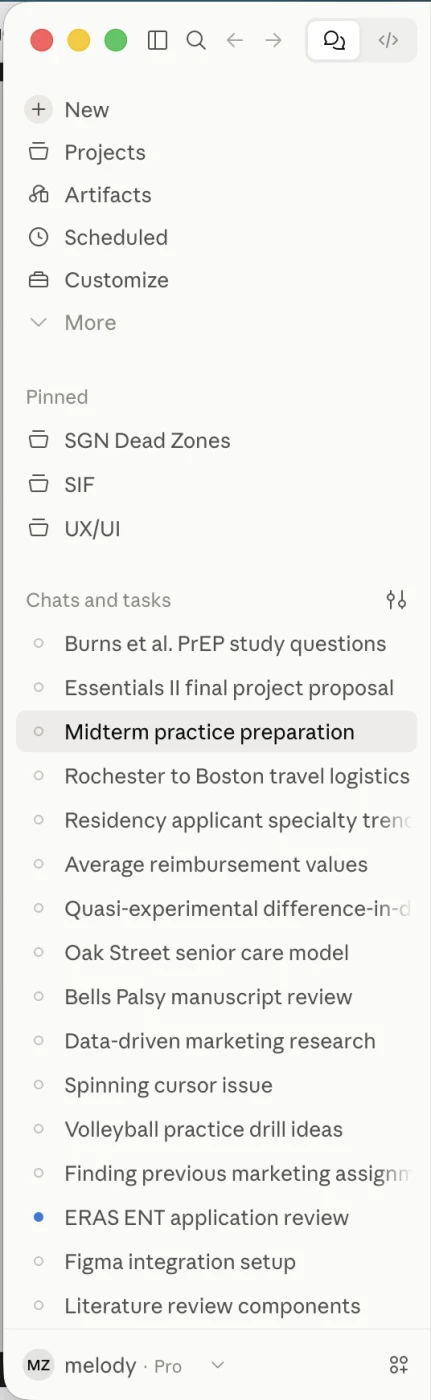
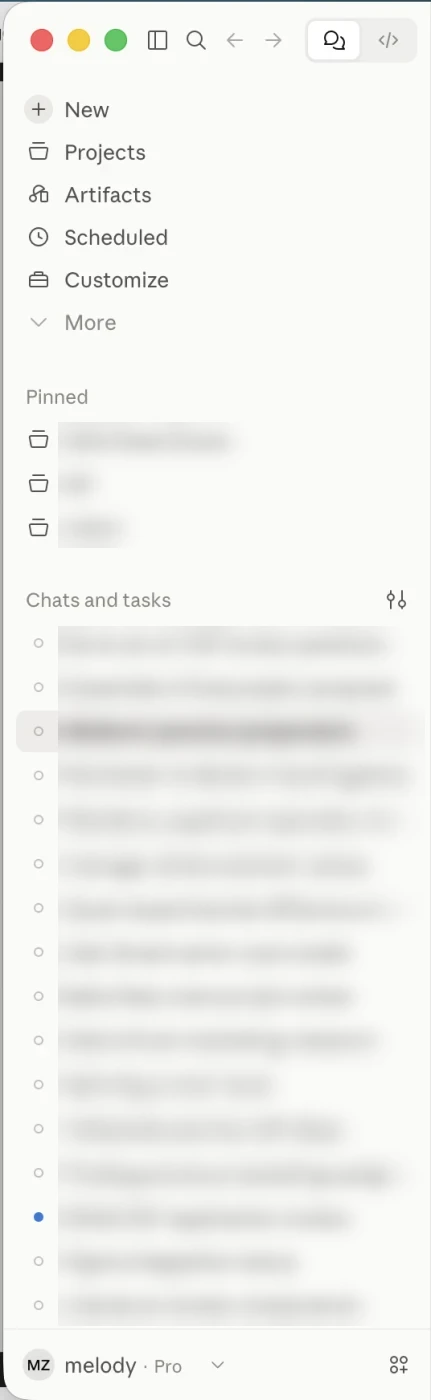
Creatify: blur personal chat titles in the Claude sidebar screenshot

Changed region(s): [[0.1206, 0.43, 0.935, 0.9521], [0.1508, 0.3071, 0.5429, 0.3993], [0.8747, 0.645, 0.9049, 0.6757]]

diff --git a/creatify/index.html b/creatify/index.html
@@ -1049,7 +1049,7 @@
         <figure><img class="sk-zoom interactable" data-full="images/nav-audit-figma-home.webp" src="images/nav-audit-figma-home.webp" width="380" height="1400" loading="lazy" alt="Figma’s home screen: the full sidebar with recents, drafts and projects."><figcaption><span class="sk-label">Figma · Home</span>Main nav fully expanded when nothing else needs the space</figcaption></figure>
         <figure><img class="sk-zoom interactable" data-full="images/nav-audit-higgsfield.webp" src="images/nav-audit-higgsfield.webp" width="375" height="1400" loading="lazy" alt="Higgsfield’s single dark sidebar: products, customize options and chat history together."><figcaption><span class="sk-label">Higgsfield</span>Chats live inside the one sidebar, so they’re hard to forget</figcaption></figure>
         <figure><img class="sk-zoom interactable" data-full="images/nav-audit-heygen.webp" src="images/nav-audit-heygen.webp" width="515" height="1400" loading="lazy" alt="HeyGen: a compact icon rail with a separate sidebar for the Apps section."><figcaption><span class="sk-label">HeyGen</span>A permanently compact rail, plus a sidebar per section</figcaption></figure>
-        <figure><img class="sk-zoom interactable" data-full="images/nav-audit-claude.webp" src="images/nav-audit-claude.webp" width="431" height="1400" loading="lazy" alt="Claude’s sidebar: actions at the top, pinned items, then chats and the account at the bottom."><figcaption><span class="sk-label">Claude</span>One sidebar with clear layers: actions, pinned, chats, account</figcaption></figure>
+        <figure><img class="sk-zoom interactable" data-full="images/nav-audit-claude.webp?v=2" src="images/nav-audit-claude.webp?v=2" width="431" height="1400" loading="lazy" alt="Claude’s sidebar: actions at the top, pinned items, then chats and the account at the bottom."><figcaption><span class="sk-label">Claude</span>One sidebar with clear layers: actions, pinned, chats, account</figcaption></figure>
       </div>
       </div>
     </div>
